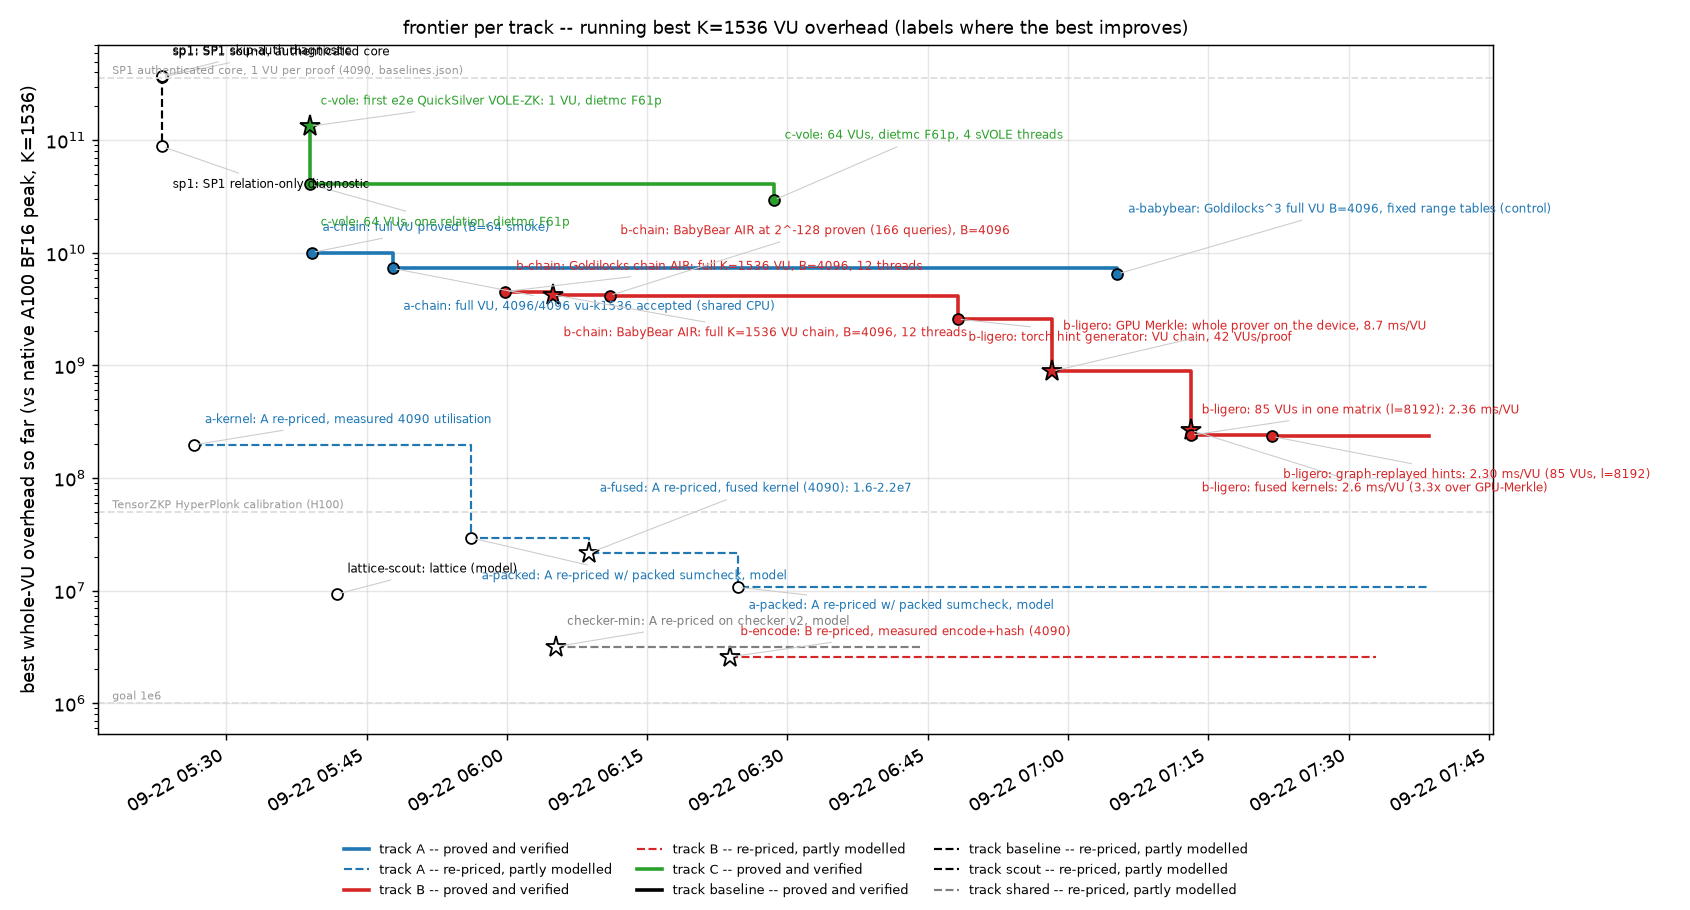
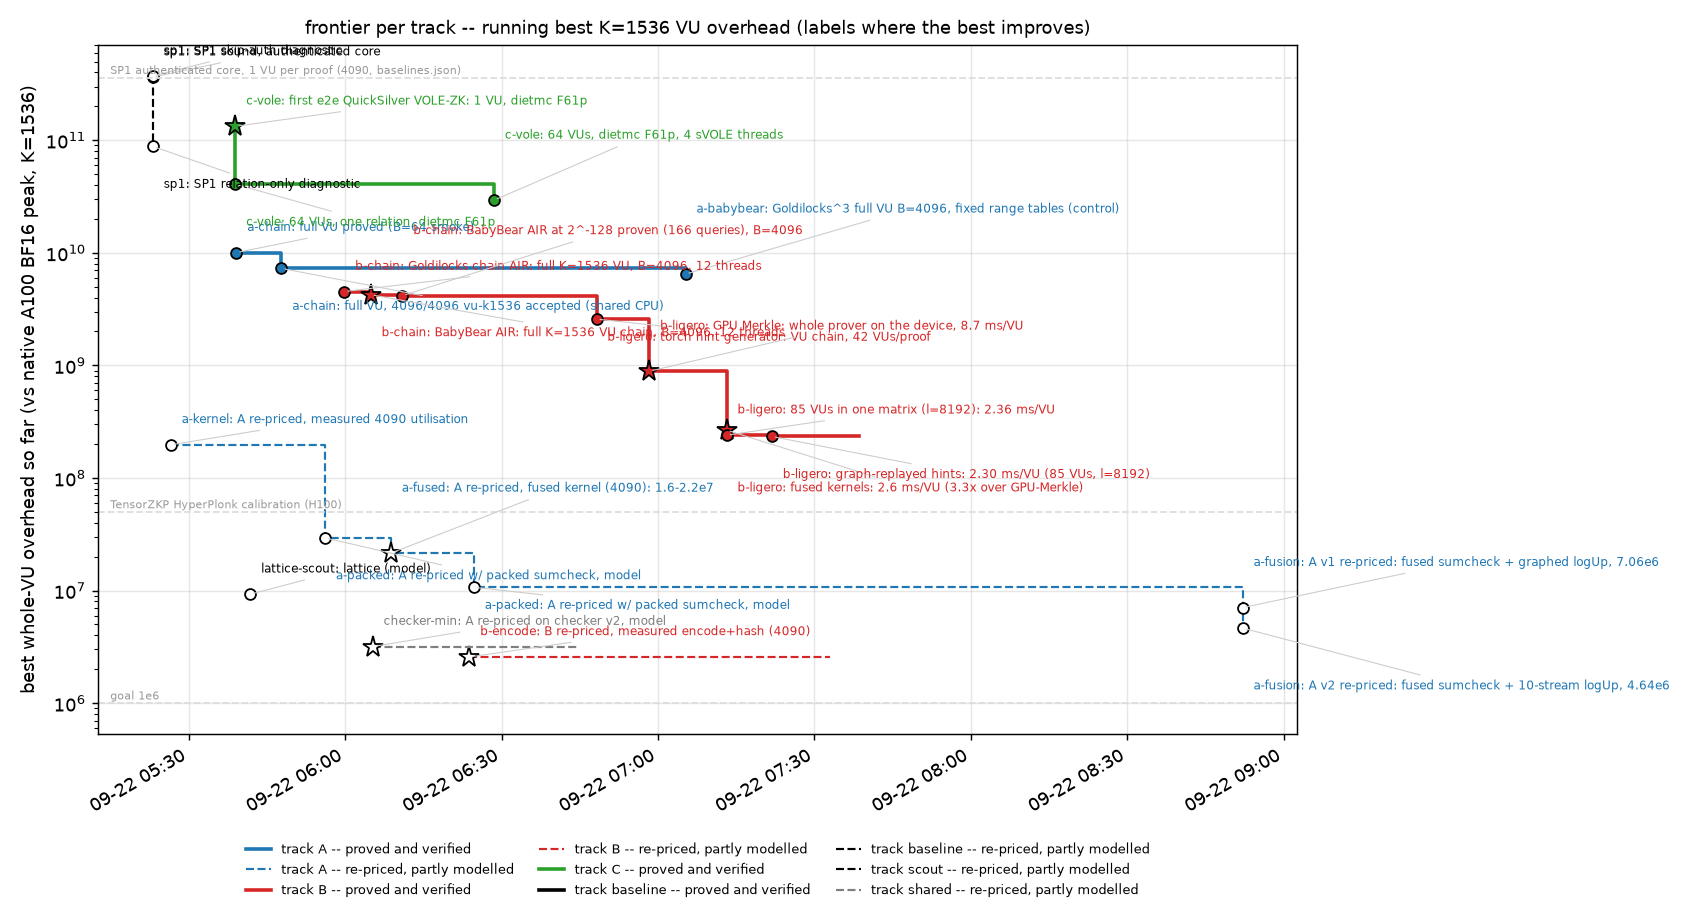
a-fusion: A re-priced v1 7.06e6 / v2 4.64e6 (a_kernels_h100_v2.md/.json), v2 logUp on 10 streams 84.7 ms, ledger vu entries + plots, README rows, HANDOFF

diff --git a/backends/gkr/packed/reprice_v2.py b/backends/gkr/packed/reprice_v2.py
@@ -81,6 +81,7 @@ def main(argv=None) -> int:
     ap.add_argument("--sumcheck", type=Path, required=True)
     ap.add_argument("--logup-v1", type=Path, required=True)
     ap.add_argument("--logup-v2", type=Path, required=True)
+    ap.add_argument("--logup-v2-concurrent", type=Path, default=None, help="logup_graph_bench.json of the --modes concurrent run")
     ap.add_argument("--k", type=int, default=3)
     ap.add_argument("--out", type=Path, default=Path("backends/numerical/reports/a_kernels_h100_v2"))
     a = ap.parse_args(argv)
@@ -136,9 +137,19 @@ def main(argv=None) -> int:
                                                                   "level_wall": v2["totals"]["level"]["wall_ms"]},
                   "tnorm_hi_added_as_tnorm_ms": tnorm["level_ms"],
                   "batch_seconds": {"level": tot_level / 1e3, "round": tot_round / 1e3},
+                  "sequential_instances_note": "'level'/'round' = the instances one after another (each pays its ~20 latency-bound small levels)",
                   "shift": {"committed_ms": per_table["SHIFT"]["level_ms"], "committed_tree_ms": per_table["SHIFT"]["tree_ms"],
                             "committed_table_share_of_leaves": per_table["SHIFT"]["table_share_of_leaves"]},
                   "note": "ten table instances measured separately (checker_min 3.1 tables); each instance pays ~20 latency-bound small levels"}
+            if a.logup_v2_concurrent is not None:
+                cc = json.loads(a.logup_v2_concurrent.read_text())["suites"]["v2"]["totals"]["concurrent"]
+                n_inst = cc["streams"]
+                lg["concurrent"] = {"measured_10_tables_ms": cc["device_ms"], "wall_ms": cc["wall_ms"], "streams": n_inst,
+                                    "per_instance_device_ms_in_parallel": cc["per_instance_device_ms_in_parallel"],
+                                    "scaled_to_11_tables_ms": cc["device_ms"] * (n_inst + 1) / n_inst,
+                                    "note": "the ten instances on ten CUDA streams (level graphs, protocol unchanged); TNORM_HI as an 11th "
+                                            "instance taken pro rata"}
+                lg["batch_seconds"]["concurrent"] = cc["device_ms"] * (n_inst + 1) / n_inst / 1e3
             if v2s:
                 sp_tabs = {t["table"]: t for t in v2s["tables"]}
                 lg["shift"]["split_u_ms"] = {n: sp_tabs[n]["level"]["device_ms"] for n in ("SHIFT_u_lo", "SHIFT_u_hi") if n in sp_tabs}
@@ -148,7 +159,7 @@ def main(argv=None) -> int:
         for dname, dm in m["designs"].items():
             g = {"model@0.172": {"overhead": dm["overhead"], "t.total": dm["t.total"], "t.gkr_checker": dm["t.gkr_checker"], "t.logup": dm["t.logup"]}}
             for sc_tag in ("baseline", "fused"):
-                for lg_tag in ("level", "round"):
+                for lg_tag in lg["batch_seconds"]:
                     meas_sc = sc_rows[sc_tag]["batch_seconds.padded"]
                     meas_lg = lg["batch_seconds"][lg_tag]
                     total = dm["t.total"] - dm["t.gkr_checker"] - dm["t.logup"] + meas_sc + meas_lg

diff --git a/backends/gkr/packed/logup_graph_bench.py b/backends/gkr/packed/logup_graph_bench.py
@@ -131,7 +131,7 @@ def time_concurrent(tables: list, k: int, repeats: int) -> dict:
     best = min(range(repeats), key=lambda i: dev_ms[i])
     out = {"device_ms": dev_ms[best], "wall_ms": wall_ms[best], "device_ms_all": dev_ms, "wall_ms_all": wall_ms,
            "per_instance_device_ms_in_parallel": dict(zip([t[0] for t in tables], per_inst[best], strict=True)),
-           "sum_of_instances_ms": sum(per_inst[best]), "streams": len(tables), "mem.peak_device_bytes": mem,
+           "sum_of_instances_ms": sum(per_inst[best]), "streams": len(tables), "us_per_vu_device": dev_ms[best] * 1e3 / VUS, "us_per_vu_wall": wall_ms[best] * 1e3 / VUS, "mem.peak_device_bytes": mem,
            "note": "all instances launched on separate streams; device_ms = default-stream start event -> join; per-instance times are "
                    "inflated by sharing the GPU"}
     del provers

diff --git a/backends/numerical/reports/a_kernels_h100_v2.md b/backends/numerical/reports/a_kernels_h100_v2.md
@@ -1,0 +1,110 @@
+# Candidate A on the H100, third pass (lane `a-fusion`): launch-fused logUp, round-fused sumcheck, the v2 shape
+
+Data: `a_kernels_h100_v2.json` (built by `backends/gkr/packed/reprice_v2.py` from `backends/numerical/reports/a_fusion/*.json`,
+all measured on `vy-g4`, NVIDIA H100 80GB HBM3 SXM, torch 2.6.0+cu124, Triton 3.2).  Labels on every number:
+`ARITHMETIC_DIAGNOSTIC`, `authentication excluded`, `security.target = -128` (BabyBear^6), B = 4096, K = 1536, random
+tables, kernels only -- **not a proof**.  Previous pass: `a_kernels_h100.md` (lane a-packed2).
+
+## 1. The two measured buckets, before -> after
+
+| bucket | shape | before (a-packed2) | after (a-fusion) | per VU | vs floor |
+|---|---|---|---|---|---|
+| checker sumcheck, one layer table 2^28, k = 3 | direct | 17.08 ms (17.69 in the a-packed2 run) | **12.65 ms** | -- | 2.87x the HBM traffic floor (4.41 ms); 4.17 % of INT8 peak |
+| checker sumcheck, 2^26, k = 3 | direct | 5.68 ms | **4.76 ms** | -- | 4.32x floor |
+| checker sumcheck, v1 batch (6 layers, padded reads 2^10 x5, 2^9) | fit 2^26..2^28 | 136.6 ms (146 in a-packed2's fit) | **99.6 ms** | 33.4 -> **24.3 us** | -- |
+| checker sumcheck, v2 batch (census: 4 layers, s_in 9, 9, 9, 8) | fit | 47.4 ms | **36.1 ms** | 11.6 -> **8.8 us** | -- |
+| checker sumcheck, v2 batch (a-v2 exporter: 2 layers, s_in 9, 9) | fit | 26.6 ms | **20.0 ms** | **4.9 us** | -- |
+| logUp fractional GKR, v1 (306 lookups/unit, 2^27 leaves) | measured | 427 ms eager (257 ms on this run's eager pass) | **88.9 ms device / 92.0 wall** (level graphs); 103.5 / 107.1 (per-round graphs, Fiat-Shamir) | 104 -> **21.7 us** (25.3 FS) | tree 14 ms; levels 24-26 = 42 ms (HBM/SIMT); 20 small levels 17 ms (latency) |
+| logUp, v2 (10 tables of checker_min 3.1, 5.2 M table rows) sequential | measured | -- | 221.6 ms device / 240.9 wall (level); 311 / 333 (per-round) | 54.1 us | each instance pays ~14 ms of latency-bound small levels (T_HDR, 2^19 leaves: 14.4 ms) |
+| logUp, v2, the 10 instances on 10 CUDA streams | measured | -- | **84.7 ms device / 84.8 wall** | **20.7 us** (22.7 with the model's 11th table pro rata) | protocol unchanged; per-instance times in parallel 30-53 ms |
+
+Sumcheck "floor" = the mandatory HBM traffic of the algorithm as implemented (every table element read once per pass,
+written once per fold) at 3.35 TB/s; the INT8 fraction counts the limb MACs issued to `tl.dot`.
+
+### 1.1 What moved the sumcheck (`kernels_triton.packed_u_{k}`, `kernels_fused.py`)
+
+* **(i) U pass -- the k packed rounds from one read of g, h.**  Round `i <= k` needs `sum eq(gamma_{>=i}, b) g(r_{<i}, x, b) h(r_{<i}, x, b)`;
+  the challenges enter only through `eq(r_{<i}, a)` coefficients, so every packed round is a linear combination of the same
+  `2^k x 2^k` base tensor `U[c, c'] = sum_{b'} eq(gamma_{>=k}, b') g(c, b') h(c', b')`.  One Triton pass forms all 64
+  Montgomery products per `b'`, their 256 limb rows, and one `tl.dot` against the eq limbs; each round is then a 4-64 term
+  contraction of `U` on the host side of the graph (`round_from_U`).  **3.48 ms vs 7.83 ms** for the three separate packed
+  rounds at 2^28 (the tensor-broadcast formulation of the same kernel is 13.7 ms: Triton's 3-D layouts spill; the generated
+  explicit-name kernel in the style of the a-packed2 Hadamards is the one used).  Same field elements in a different
+  summation order: transcripts bit-identical to `reference.packed_prover` (31 CUDA agreement tests, k = 0..4).
+* **(ii) fold fused into the next Hadamard (`ext_fold_ip`)**: implemented, bit-exact, **measured slower** -- 2.28 ms vs
+  0.87 (two `fold_ext`) + 0.88 (`ext_ip`) at 2^28 / round k+2, over a BLOCK_K / warps sweep.  Both kernels are SIMT-bound
+  (the `F_{p^6}` Montgomery products), so removing the folded tables' re-read (3.2 -> 2.4 GB) buys nothing and the fused
+  kernel's register pressure costs; `fold_ext` alone already runs at 2.8 TB/s.  Kept opt-in (`Kernel(fold_fusion=True)`).
+* **(iii) cross-layer fusion**: not attempted -- with (ii) negative the remaining per-layer cost is SIMT work, not passes.
+* The remaining 12.65 ms at 2^28: U pass 3.5, fold_k ~1.2, 25 extension rounds ~8 (Hadamard 0.88 + folds 0.87 at the first,
+  halving).  Next lever is the `F_{p^6}` product itself (36 `mmul` + 30 adds per element; Karatsuba / Toom over the 6
+  coefficients, or 2x16-bit limb halves so the Hadamard feeds `tl.dot` more directly).
+
+### 1.2 What moved the logUp (`logup_graph.py`, `kernels_graph.py`)
+
+CUDA graphs, one per level (27 graphs, 0 host round trips) or one per round (378 graphs, 351 D2H syncs).  The choice
+that keeps the transcript identical: the coins live in a **static device buffer** and every challenge-dependent constant
+(`eq(r, .)` tables, `prefix`, `eq_x`, `r . R`) is computed **on the device** from that buffer by small Triton kernels inside
+the graph (`kernels_graph.eq_table_vars`, `round_consts`, `scale_R`); `bincount` is replaced by an atomic histogram so the
+whole tree is capturable.  Replaying a graph with new coins therefore evaluates exactly the eager prover's arithmetic;
+7 CUDA tests check both segmentations against `logup_reference.py` message for message, and the published vectors
+(`kernels.test_vectors`) are reproduced by every entry point (`tests/test_vectors.py`).
+
+* per-level graphs need the level's coins before the level starts (a sponge fed only by earlier levels, or the
+  transcript-independent coins of these measurements); per-round graphs are a drop-in for Fiat-Shamir at +16 %.
+* v1: 88.9 ms.  Levels 24-26 (2^24-2^26 pairs) are 42 ms and HBM/SIMT-bound; the 20 smallest levels are 17 ms of
+  latency-bound kernel chains (~10 launches per round inside the graph, ~5-8 us each).
+* v2's ten tables are ten instances of 2^19..2^24 leaves; sequentially every instance pays those small levels (14-34 ms
+  each, 221.6 ms total).  Launched on ten streams they overlap to **84.7 ms**; the per-instance times in parallel
+  (30-53 ms) say the overlap is partial -- the host launch loop (~250 graph replays + ~500 pinned H2D writes) and the
+  big levels' HBM sharing are next.  A single batched instance (random linear combination of the per-table identities,
+  one tree of 2^25 leaves) would be ~2^25/2^27 x 89 ms ~ 25-35 ms but is a protocol change (accounting counts the tables
+  separately) and is **not** measured here.
+
+### 1.3 SHIFT: committed per proof vs split-u (`checker_min.md` 4)
+
+| route | leaves | measured (level graphs, sequential) | table-side cost |
+|---|---|---|---|
+| SHIFT committed (3.54 M rows + 6.29 M queries, 2^24 leaves, 21 % table share) | 16.8 M | **33.9 ms** (tree 2.1 ms) | T_OP at the same 2^24 with 0.4 % table share is 33.7 ms: the table side costs **~0.2 ms** of GPU time here; its real cost is the 3.54 M multiplicity elements in the Ligero payload (modelled, inside `encoding`) |
+| split-u (two 32,768-row tables, 16 lookups/unit each, 2 x 2^23 leaves) | 2 x 8.4 M | 2 x 26.8 = **53.6 ms** | no table-side cost to speak of, but a second instance's fixed small-level cost |
+
+Committing SHIFT is the cheaper route on the GPU (33.9 vs 53.6 ms); PROTOCOL.md 14.2's "implicit table" makes the
+commitment a materialised definition rather than 60 MB of circuit text at the same prover cost.  Concurrent streams
+shrink the split-u penalty (both instances overlap) but do not reverse it.
+
+## 2. A re-priced: v1 vs v2
+
+`explore.tensor` design A on the H100 at 0.172 utilisation with `gkr_checker` + `gkr_hadamards` replaced by the measured
+sumcheck and `logup_fractional_gkr` + `logup_hadamards` + `logup_tree_build` by the measured logUp; encoding, row
+combination, hashing, hints, PRG stay modelled.  `overhead.vs_native_peak` per VU, K = 1536.
+
+| | v1 (WP2 checker contracts) | v2 (checker-min gadgets) |
+|---|---|---|
+| modelled (0.172) | 1.07e7 (t.total 0.432 s: sumcheck 257 ms, logUp 86 ms) | 3.89e6 (0.157 s: sumcheck 64 ms, logUp 35 ms) |
+| a-packed2 measured buckets | 1.73e7 (logUp launch-bound 427 ms) | -- |
+| **a-fusion measured buckets** | **7.06e6** (0.285 s: sumcheck 99.6 ms, logUp 96.6 ms level graphs) | **4.64e6** (0.187 s: sumcheck 36.1 ms, logUp 93 ms on 10 streams, 11th table pro rata) |
+| Fiat-Shamir per-round graphs | 7.46e6 (logUp 112 ms) | 1.08e7 sequential per-round (340 ms) -- the concurrent per-round variant is not measured |
+| sequential level graphs (v2) | -- | 8.32e6 (logUp 241 ms) |
+| `A-hintfree-depth630` | 6.41e6 | 4.42e6 |
+
+* v2's measured total is **not below 4e6**: no `--breakthrough`.  The modelled/measured gap in v2 is the logUp (35 ms
+  modelled vs 93 ms measured): the model prices leaves, the GPU pays per instance.  With a batched single instance
+  (1.2) v2 would land near 0.13 s ~ 3.2e6 -- an estimate, not a measurement.
+* sumcheck: v2 = 36 % of v1's bucket (2.625 vs 5.75 layer tables of 2^28 at the census shape; 1.5 at the exporter's).
+  The v2 layer shape used here is the census's (`accounting.CHECKER_SHAPE_A` under `VERITY_CHECKER_VARIANT=v2`: assert +
+  depths 3, 2, 1 with s_in 9, 9, 9, 8, widths 9 / 277 / 274 / 267); the a-v2 exporter's circuit (`PROTOCOL.md` 14.4) is two
+  layers at s_in = 9 -- 20.0 ms, in the JSON as `sumcheck_extra_shapes`.
+
+## 3. Omitted / still modelled / still launch-bound
+
+* Ligero encoding, row combination, hashing, hint generation, PRG: modelled at 0.172 utilisation (0.086 s of v1's 0.285 s,
+  0.058 s of v2's 0.187 s).  SHIFT's 3.54 M multiplicity elements are in the modelled encoding, not measured.
+* authentication excluded; zk none; relation checker not assembled on the GPU; kernels on random tables.
+* Fiat-Shamir: the headline numbers use coins independent of the transcript (level graphs; sumcheck coins drawn ahead,
+  whole layer as one CUDA graph).  The per-round-graph rows are the Fiat-Shamir-compatible prices (+16 % logUp v1).
+* launch-bound remainder: the small logUp levels (17 ms of v1's 89; most of v2's per-instance floor) are kernel chains
+  inside graphs -- a persistent per-level kernel for levels under one wave, or the batched instance, is the next step;
+  the v2 concurrent run's partial overlap points at the host launch loop (~750 graph/H2D operations per proof).
+* v2 logUp tables: the ten of checker_min 3.1 (T_range16 at 10/unit) plus the model's 11th (TNORM_HI) pro rata; the
+  model has T_range16 at 14/unit.
+* Fold + Hadamard fusion and cross-layer fusion: not in the numbers (measured negative / not attempted).

diff --git a/backends/gkr/packed/HANDOFF.md b/backends/gkr/packed/HANDOFF.md
@@ -1,35 +1,25 @@
 # a-fusion lane -- HANDOFF
 
 Branch `lane/a-fusion` (worktree `/Users/danielreuter/projects/verity-a-fusion`), pod `vy-g4` (H100, id uktx6i8dejuunk).
-Pod working copy: `/workspace/fusion` (synced with `tar | ssh`, helper scripts `/tmp/g4sync.sh`, `/tmp/g4ssh.sh` on the
-laptop: ssh `-i ~/.runpod/ssh/runpodctl-ssh-key -p 11461 root@64.247.201.61`). Kernel cache `PACKED_KERNEL_CACHE=/workspace/fusion/kcache`.
+Pod working copy: `/workspace/fusion` (synced with `tar | ssh`; ssh `-i ~/.runpod/ssh/runpodctl-ssh-key -p 11461 root@64.247.201.61`).
+Kernel cache `PACKED_KERNEL_CACHE=/workspace/fusion/kcache`.  Nothing is running on the pod.
 
-## State (2026-09-22 ~01:30 PDT)
+## State (2026-09-22 ~02:30 PDT): deliverables 1-5 done and committed
 
-Done, committed, tests green on the pod (`PACKED_DEVICE=cuda pytest backends/gkr/packed/tests`):
+* Report: `backends/numerical/reports/a_kernels_h100_v2.md` / `.json`; raw results `backends/numerical/reports/a_fusion/`
+  (`logup_graph_v1.json`, `logup_graph_v2.json`, `logup_graph_v2_concurrent.json`, `bench_fused_k3.json`, `bench_fused_2p26_ks.json`).
+* Ledger `backends/numerical/reports/ledger/a-fusion.jsonl`: 2 component entries (graphed logUp v1; U-pass sumcheck), 2 vu
+  entries (A v1 7.06e6, A v2 4.64e6; no breakthrough).  Plots regenerated (`plots/overhead_a-fusion.png`).
+* Code: `logup_graph.py`, `kernels_graph.py`, `kernels_fused.py`, `kernels_triton.py` (`packed_u_{k}`, `ext_fold_ip`),
+  `sumcheck_packed.py` (`round_fusion`, `fold_fusion`, `prove_device`, `prepare_inputs`), `bench_fused.py`, `logup_graph_bench.py`
+  (`--modes concurrent`), `reprice_v2.py`, `kernels.py` entry points, tests (`test_logup_graph.py`, `test_vectors.py`,
+  `test_kernel_agreement.py::test_round_fusion_matches_reference`).  All CUDA tests green on vy-g4.
 
-1. **LogUp CUDA graphs** (`logup_graph.py`, `kernels_graph.py`, tests `test_logup_graph.py`): v1 shape 427 ms eager ->
-   **88.9 ms device / 92.0 ms wall** (per-level graphs, coins pre-filled) or **103.5 / 107.1 ms** (per-round graphs, Fiat-Shamir
-   sync between rounds). Result `backends/numerical/reports/a_fusion/logup_graph_v1.json`. Ledger component entry added.
-2. **Packed sumcheck fusion** (`kernels_fused.py`, `kernels_triton.py::_packed_u_source / _ext_fold_ip_source`,
-   `sumcheck_packed.py`): U pass (k packed rounds from one read of g, h) **3.48 ms vs 7.83 ms** for the three packed
-   rounds at 2^28 k=3 (generated explicit-name kernel; the tensor-broadcast twin is 13.7 ms -- kept for the agreement
-   test only). Fold+Hadamard fusion (`ext_fold_ip`) **measured slower** (2.28 vs 0.86 + 0.88 ms): SIMT-bound both ways;
-   opt-in `Kernel(fold_fusion=True)`, default off. `prove_device` + `prepare_inputs` = sync-free pipeline (whole
-   sumcheck in one CUDA graph) for benches / a-gpu.
+## Next three steps (if the lane continues)
 
-Running on the pod (nohup chain, logs in `/workspace/fusion/*.log`, outputs `/workspace/fusion/out_*`):
-- `bench_fused --log2 26 28 --ks 3` -> `out_fused/bench_fused.json` (`fused.log`)
-- `bench_fused --log2 26 --ks 0 1 2 --no-pieces` -> `out_fused_ks/` (`fused_ks.log`)
-- `logup_graph_bench --suite v2 v2-splitu` -> `out_v2/logup_graph_bench.json` (`v2.log`)
-
-## Next three steps
-
-1. Fetch the three outputs (`/tmp/g4ssh.sh 'cat /workspace/fusion/out_fused/bench_fused.json'` etc.) into
-   `backends/numerical/reports/a_fusion/`; ledger `component` entries for the fused sumcheck (2^28 k=3 graphed ms/layer)
-   and LogUp v2 (per table instance, SHIFT committed vs split-u).
-2. Re-price A: extend `reprice_a.py` (or a `reprice_v2.py`) -> `backends/numerical/reports/a_kernels_h100_v2.md/.json`
-   with v1/v2 buckets (sumcheck from `bench.layer_model` fit with the fused per-layer ms; LogUp measured; commit/opening/
-   hash via `explore.tensor` with `VERITY_CHECKER_VARIANT=v2`), ledger `vu` entries (`--breakthrough` if < 4e6), plots.
-3. `kernels.py`: entry points `packed_u_inner_product`, `round_from_U`, `ext_fold_inner_product`, `prove_device` +
-   test vectors (`tests/vectors`), README rows ("For a-gpu"); final message per brief 2.9.
+1. logUp small levels: a persistent per-level kernel for levels under one wave (17 ms of v1's 89 ms; most of v2's
+   per-instance floor), or -- protocol change, needs accounting -- one batched instance over all v2 tables (estimate 25-35 ms).
+2. v2 concurrent: the per-round (Fiat-Shamir) segmentation on streams was not measured; the host launch loop (~750 graph
+   replays / pinned H2D per proof) limits the overlap -- capture the level graphs of all instances into one graph per level.
+3. Sumcheck SIMT floor: the `F_{p^6}` product (36 mmul) in `ext_ip` / `fold_ext` is the bound now (2.87x HBM floor);
+   Karatsuba over the 6 coefficients or 2x16-bit limbs feeding `tl.dot` directly.

diff --git a/backends/gkr/packed/README.md b/backends/gkr/packed/README.md
@@ -165,6 +165,25 @@ by message in `tests/test_kernel_agreement.py` and `tests/test_logup_gpu.py` (`P
 
 Launch overhead is the a-gpu prover's problem to solve (it owns the round loop): ~10 launches + 1 H2D per round here.
 
+## Third pass (lane `a-fusion`): launch-fused logUp, round-fused sumcheck, v2 shape
+
+Full write-up: `backends/numerical/reports/a_kernels_h100_v2.md` (+ `.json`); raw results `backends/numerical/reports/a_fusion/`.
+All on vy-g4 (H100), tests: 31 sumcheck agreement + 7 graphed logUp + 4 vector tests bit-exact.
+
+| what | before -> after |
+|---|---|
+| `logup_graph.py` + `kernels_graph.py`: CUDA graphs per level (coins in a static device buffer, round constants computed on device) | v1 logUp **427 -> 88.9 ms device / 92.0 wall** (21.7 us/VU); per-round graphs (Fiat-Shamir) 103.5 / 107.1 |
+| `kernels_triton.packed_u_{k}` (U pass: the k packed rounds from one read of g, h) | 2^28 k=3 **17.08 -> 12.65 ms/layer**; 2^26 5.68 -> 4.76; v1 batch 136.6 -> **99.6 ms = 24.3 us/VU**; 2.87x HBM floor, 4.17% INT8 peak |
+| `ext_fold_ip` (fold fused into the next Hadamard) | **slower** (2.28 vs 1.75 ms at 2^28): SIMT-bound both ways; opt-in `Kernel(fold_fusion=True)` |
+| v2 sumcheck (census shape, 4 layers s_in 9,9,9,8) | **36.1 ms/batch = 8.8 us/VU** (exporter's 2-layer shape: 20.0 ms) |
+| v2 logUp, 10 tables (5.2 M rows), `logup_graph_bench --suite v2` | sequential 221.6 ms (each instance pays ~14 ms of small levels); **10 streams 84.7 ms = 20.7 us/VU**; SHIFT committed 33.9 ms vs split-u 53.6 ms |
+| A re-priced (`reprice_v2.py`) | v1 1.73e7 -> **7.06e6**; v2 **4.64e6** (modelled 3.89e6); not below 4e6 |
+
+New entry points in `kernels.py`: `sumcheck_layer_device` / `prepare_inputs` (sync-free, graph-capturable layer),
+`GraphLogUp` / `logup_prove_graphed` (`rounds_per_graph=None | 1`), `GraphLogUp.launch/finish` (multi-stream instances).
+`bench_fused.py` (whole-sumcheck fusion on/off, kernel pieces, `--micro` config sweep), `logup_graph_bench.py`
+(`--suite v1 v2 v2-splitu --modes level round concurrent`).
+
 ## Not done / next
 
 1. **Univariate skip** (Gruen 2024/108): a protocol change (round degree `3 (2^s - 1)`, new soundness term); needs
